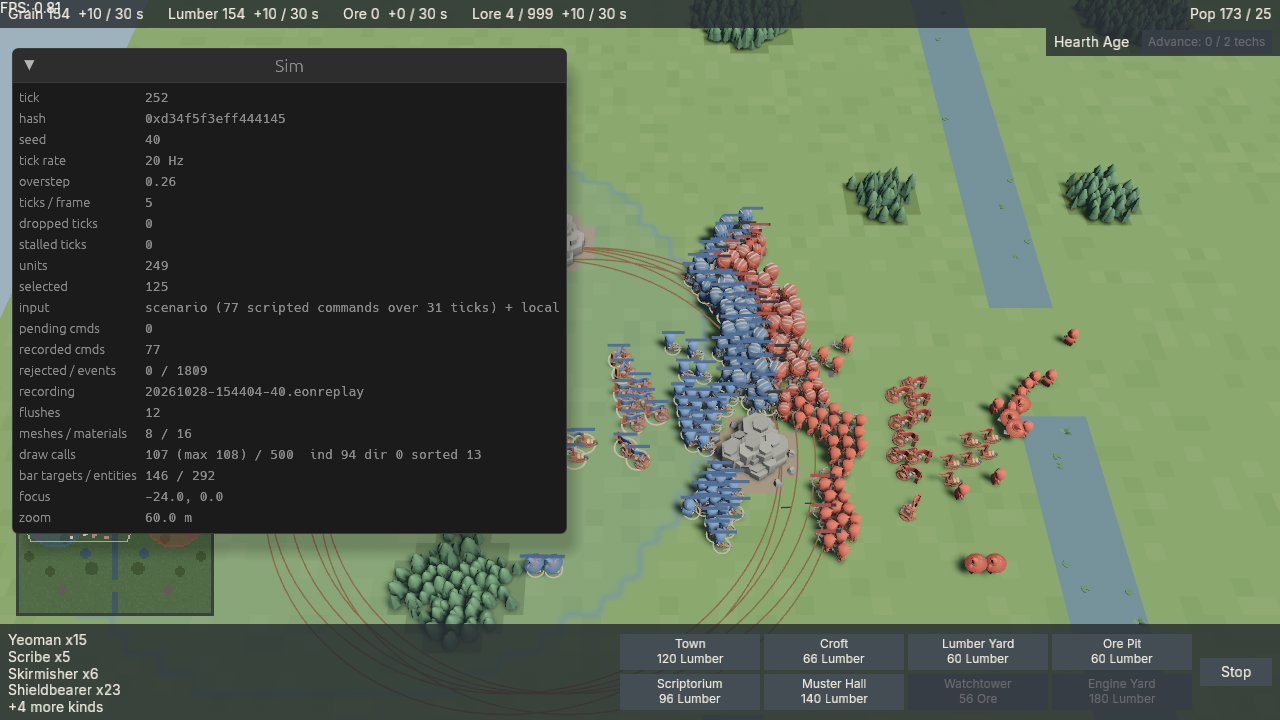
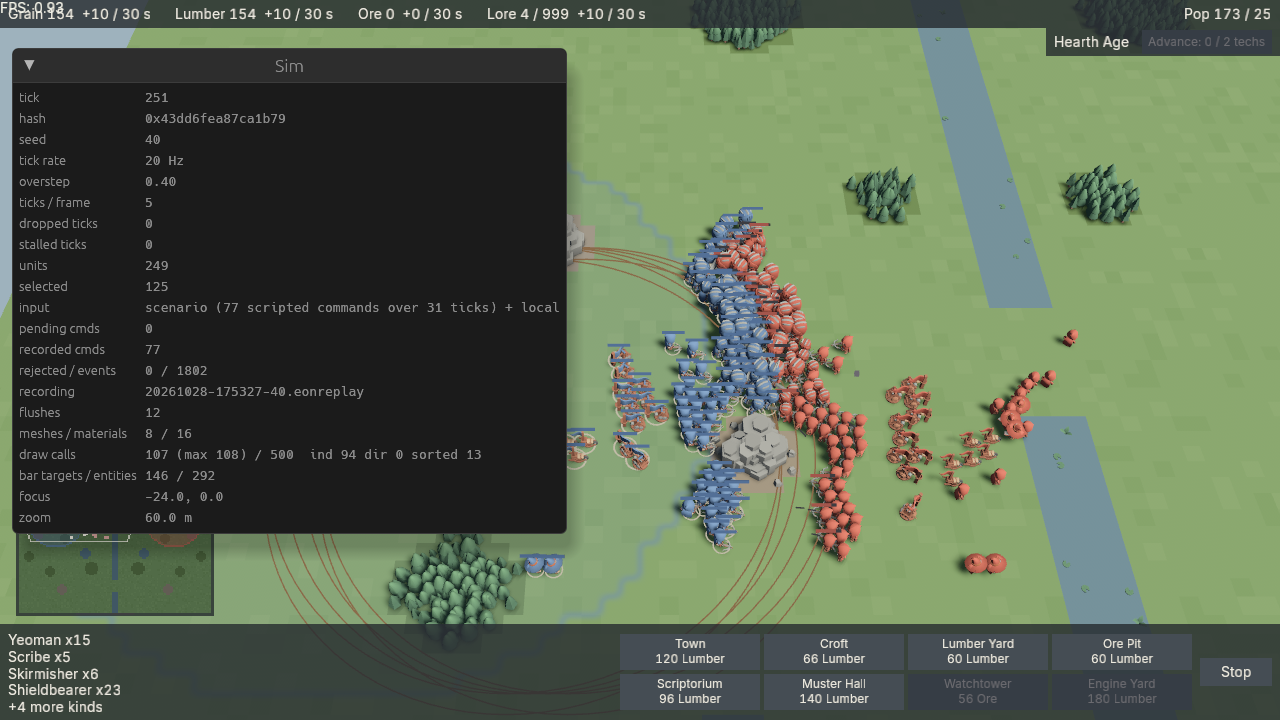
Correct the art-pass sign-off notes and retake the screenshots with tabular figures
PLAYTEST's caption for art-battle-60m.png named both Towns' buildings,
but the shot holds P0's Seat, its eleven buildings and three sites; P1's
mirrored Town is off-screen, on the minimap only. The match shot's
minimap outlines four Towns, two a player. The sign-off note pointed the
owner at the blue buildings' terracotta wood only; the blue Mangonel and
Supply Wain are mostly the same wood, and on art-units-40m.png their
saturated pixels count more red than blue (343 against 121, 227 against
54), so the note now names them with the same lever. Owner decision 15
also reads "no crowd clipping": scale 450 still reaches 0.10 m past the
Mangonel's radius and a banner inside it would miss the 120 permille
floor, so ROADMAP, ART_STYLE, inspect_gltf's comment and the sign-off
note record that and ask the owner to confirm. ART_STYLE called the
scale-450 pole half as thick; it is 450/700, about two-thirds.

fog.md now cites the plugin-driven border test for AP6's "within one
frame", ROADMAP gains the review's note, and PLAYTEST's proxy rows the
re-run evidence, including one art-checks run whose minimap paint p95 read
575 us and art_drive's ungated short-run p95. The five screenshots are
retaken by just art-checks at b5f7154 (lossless re-encode), so the HUD
shows Inter's tabular figures.

diff --git a/tools/inspect_gltf/src/check.rs b/tools/inspect_gltf/src/check.rs
@@ -105,8 +105,10 @@ impl Default for Budgets {
     /// The team floors are the plan's (units 200‰, the Wain 80‰, buildings
     /// 100‰); the Seat flag's 300‰ sits under its measured 457‰. The
     /// Mangonel's own floor is 120‰ (owner decision 15 of the art pass,
-    /// 2026-10-28: its banner shrinks to scale 450, about 123‰, so it
-    /// clips less in a packed group; every other unit keeps 200‰).
+    /// 2026-10-28: its banner shrinks to scale 450, about 123‰, "no crowd
+    /// clipping"; centred it still reaches 0.10 m past the 0.5 m radius,
+    /// which `check` notes, and a banner inside the radius would miss the
+    /// floor; every other unit keeps 200‰).
     fn default() -> Self {
         Budgets {
             file_bytes: 2 * 1024 * 1024,

diff --git a/docs/PLAYTEST.md b/docs/PLAYTEST.md
@@ -131,9 +131,9 @@ The art pass's acceptance list is in the ROADMAP's "Art pass (pre-stream)" secti
 
 | Proxy | Command | Covers | Pass when | Observed |
 |---|---|---|---|---|
-| `just art-checks` (local only) | `just art-checks out` (builds a dev binary, kept as `target/ci/eonmark-dev`, then the `ci` game, `sim-cli` and `inspect_gltf`; `scripts/art_checks.sh`, which wraps each game run in `xvfb-run` on lavapipe when there is no display; `ART_BENCH_SECONDS=120`, `ART_LOOKS_SECONDS=60`, `ART_MATCH_SECONDS=90`, `ART_DEV_SECONDS=120`) | 1. data-check; 2. AP2's Yeoman swap on a scratch copy of `data/`; 3. AP3's `inspect_gltf check`; 4. AP1's `check_assets.sh` and its self-test; 5 to 9. five 1280x720 runs that save the four sign-off shots and the dev panel's, each run's draws under 500 (AP4 on `art_bench`), the minimap's paint p95 at most 500 us (AP6), every replay verified; 10. no process left | every step prints PASS and the script ends `art_checks: ok` | 2026-10-28, 8 min 58 s, every step PASS. `OK rules_version=25 rules_hash=0xfb0d0b8986fc8865 ... visuals=units:8 buildings:8 terrain:3 models=36`; the swapped copy `... rules_hash=0xfb0d0b8986fc8865 ... models=35`, one changed line, all 11 fixtures `OK` against it; `check: ok 37 scene(s)`; `check_assets: ok (80 files, 4230353 bytes)` and the self-test's `error: models/unattributed.glb has no row in assets/ATTRIBUTION.md ...` then `self-test ok`. Draws: `unit_looks` max 70; `art_bench` at 40 m max 115 (`fight_max=115`); in its framing `draws frames=109 mean=104.2 p95=109 max=109 indirect_max=97 direct_max=0 sorted_max=12 mode=culling fight_max=109` with `triangles main_max=2090217` and `fight ... fps=0.9 ... on_screen_min=348/348`; the spectated match max 91 (`fast_forward: tick=13006 wall_s=0.52`); the dev build max 110 with `hierarchy_check: ok frames=114 bar_targets_max=213 rings_max=200`. Minimap paint p95 332.6 to 361.9 us. |
-| `just art-drive` (local only, Linux) | `just art-drive out` (`scripts/art_drive.sh target/ci/eonmark target/release/sim-cli out`: its own Xvfb per run and xdotool) | AP10: every unit of `--scenario unit_looks --click-check` clicked with real X input; AP6: `--scenario economy_walkthrough --minimap-check`'s press, drag, right click, and A then left click on the minimap | `click_check: ok 16/16` and `minimap_check: ok`, both games exit 0 with no ERROR line, both replays verify, no process left | 2026-10-28, 54 s: 16 `click_check: selected <i> ...` lines and `click_check: ok 16/16` (`OK final_hash=0xb22949aa7aa54c0a ticks=544`); `minimap_check: pass 1 focus=32.5,32.5`, `pass 2 focus=-25.5,-6.5 drags=6`, `pass 3 move units=5`, `pass 4 attack_move`, `minimap_check: ok` (`OK final_hash=0x696ca49d752a9ca6 ticks=168`). |
-| CI's `art_bench` render smoke and draw-call gate | `scripts/render_smoke.sh target/ci/eonmark out art_bench '' 200 120`, then `scripts/check_draws.sh --fight out/render_smoke.log` | AP4 in CI | the smoke passes and `check_draws: ok` | Locally 2026-10-28 (1280x800): tick 200 at 63.8 s, `draws ... max=109 ... fight_max=109`, `check_draws: ok max=109 fight_max=109 < 500 mode=culling`. On Actions: read it off the art pass PR's game-linux job. |
+| `just art-checks` (local only) | `just art-checks out` (builds a dev binary, kept as `target/ci/eonmark-dev`, then the `ci` game, `sim-cli` and `inspect_gltf`; `scripts/art_checks.sh`, which wraps each game run in `xvfb-run` on lavapipe when there is no display; `ART_BENCH_SECONDS=120`, `ART_LOOKS_SECONDS=60`, `ART_MATCH_SECONDS=90`, `ART_DEV_SECONDS=120`) | 1. data-check; 2. AP2's Yeoman swap on a scratch copy of `data/`; 3. AP3's `inspect_gltf check`; 4. AP1's `check_assets.sh` and its self-test; 5 to 9. five 1280x720 runs that save the four sign-off shots and the dev panel's, each run's draws under 500 (AP4 on `art_bench`), the minimap's paint p95 at most 500 us (AP6), every replay verified; 10. no process left | every step prints PASS and the script ends `art_checks: ok` | 2026-10-28, 8 min 58 s, every step PASS. `OK rules_version=25 rules_hash=0xfb0d0b8986fc8865 ... visuals=units:8 buildings:8 terrain:3 models=36`; the swapped copy `... rules_hash=0xfb0d0b8986fc8865 ... models=35`, one changed line, all 11 fixtures `OK` against it; `check: ok 37 scene(s)`; `check_assets: ok (80 files, 4230353 bytes)` and the self-test's `error: models/unattributed.glb has no row in assets/ATTRIBUTION.md ...` then `self-test ok`. Draws: `unit_looks` max 70; `art_bench` at 40 m max 115 (`fight_max=115`); in its framing `draws frames=109 mean=104.2 p95=109 max=109 indirect_max=97 direct_max=0 sorted_max=12 mode=culling fight_max=109` with `triangles main_max=2090217` and `fight ... fps=0.9 ... on_screen_min=348/348`; the spectated match max 91 (`fast_forward: tick=13006 wall_s=0.52`); the dev build max 110 with `hierarchy_check: ok frames=114 bar_targets_max=213 rings_max=200`. Minimap paint p95 332.6 to 361.9 us. Re-run after the review of slices 5 and 6 (2026-10-28, code at `b5f7154`): the first run failed one check, step 7's `minimap paint p95=575.0 us, want <= 500` over 137 repaints (`max=1610.4`; the paint code had not changed, and the same step read 303.7 us on the next run, so it is the VM's timing noise, not a regression); the re-run, 8 min 54 s, passed every step: draws `unit_looks` max 70, `art_bench` at 40 m max 115, in its framing `check_draws: ok max=109 fight_max=109 < 500 mode=culling fight ticks=47..388 frames=72`, the spectated match max 94, the dev build max 110 with `hierarchy_check: ok frames=131 bar_targets_max=213 rings_max=200`; minimap paint p95 287.9 to 327.7 us; step 10 `PASS  no game this script started is running` and `PASS  no Xvfb this script started is running`. |
+| `just art-drive` (local only, Linux) | `just art-drive out` (`scripts/art_drive.sh target/ci/eonmark target/release/sim-cli out`: its own Xvfb per run and xdotool) | AP10: every unit of `--scenario unit_looks --click-check` clicked with real X input; AP6: `--scenario economy_walkthrough --minimap-check`'s press, drag, right click, and A then left click on the minimap | `click_check: ok 16/16` and `minimap_check: ok`, both games exit 0 with no ERROR line, both replays verify, no process left | 2026-10-28, 54 s: 16 `click_check: selected <i> ...` lines and `click_check: ok 16/16` (`OK final_hash=0xb22949aa7aa54c0a ticks=544`); `minimap_check: pass 1 focus=32.5,32.5`, `pass 2 focus=-25.5,-6.5 drags=6`, `pass 3 move units=5`, `pass 4 attack_move`, `minimap_check: ok` (`OK final_hash=0x696ca49d752a9ca6 ticks=168`). This script gates no paint time: over its 40 to 48 repaints a run's p95 is close to the third-worst sample, and an earlier run of the same binary printed `frame_stats: minimap repaints=47 paint_us mean=238.5 p95=629.2 max=1694.6`, over AP6's 500 us, while `just art-checks`, which gates it, judges the bound over 112 to 206 repaints a run. Re-run after the review of slices 5 and 6 (2026-10-28, code at `b5f7154`), 51 s: `click_check: ok 16/16` (`OK final_hash=0xe9e2acaf1ec8d1ce ticks=551`), the same four `minimap_check: pass` lines and `minimap_check: ok` (`OK final_hash=0xae43fc0a59197776 ticks=170`, `frame_stats: minimap repaints=40 paint_us mean=193.8 p95=295.7 max=342.9`), `PASS  none of the 4 games and Xvfb servers this script started is running`. |
+| CI's `art_bench` render smoke and draw-call gate | `scripts/render_smoke.sh target/ci/eonmark out art_bench '' 200 120`, then `scripts/check_draws.sh --fight out/render_smoke.log` | AP4 in CI | the smoke passes and `check_draws: ok` | Locally 2026-10-28 (1280x800): tick 200 at 63.8 s, `draws ... max=109 ... fight_max=109`, `check_draws: ok max=109 fight_max=109 < 500 mode=culling`. Since the review of slices 5 and 6, `--fight` also requires that the fight was measured (a non-zero `fight_max` and a `frame_stats: fight` line with fight frames and ticks); the slice 5 verify run of `just render-smoke out art_bench '' 300 120` at `b5f7154` printed `check_draws: ok max=109 fight_max=109 < 500 mode=culling fight ticks=47..388 frames=72`. On Actions: read it off the art pass PR's game-linux job. |
 | Trace cross-check | `XCHECK_TARGET_DIR=<scratch> scripts/draw_trace_xcheck.sh out` (a second Bevy build with `detailed_trace`, about 4 GB) | AP4's and AP7's "the trace cross-check agrees in both modes" | four `draw_trace_xcheck: ... PASS` lines | 2026-10-28, 21 min: `unit_looks` and `art_bench`, `mode=culling` and `mode=preprocessing_only`, every frame equal but the last, which the exit cuts short (docs/BUILD_TIMES.md). |
 
 ## Owner's Mac checklist (art pass)
@@ -185,7 +185,10 @@ What to look for:
 7. M3b line 2: `fps` >= 60 in `frame_stats: frames=<n> seconds=<s> fps=<f>` (the walkthrough has no fight window) and the dev panel's draw calls under 500. M4b line 2: its `fight` line as in the M4b checklist's note 1, now with the character models.
 8. `cpal v0.17.3`, one line.
 
-At sign-off, look hard at one thing the agent's check flagged: the KayKit buildings' terracotta walls and trim (hue about 21°, saturation about 0.47 in `art-town-40m.png`) sit close to the red team colour on screen (P1's units measure hue about 15°, saturation 0.52), so a blue building carries a warm red-brown that a viewer might read as red. If it does, the lever is one number in `data/visuals.ron`, `team_swatches["kaykit_hexagon"].desaturate_permille` (200 now; the props use 500), with no Rust change and no `rules_version` bump.
+At sign-off, look hard at two things the agent's check flagged:
+
+1. **KayKit's terracotta wood on the blue side.** The KayKit buildings' terracotta walls and trim (hue about 21°, saturation about 0.47 in `art-town-40m.png`) sit close to the red team colour on screen (P1's units measure hue about 15°, saturation 0.52), so a blue building carries a warm red-brown that a viewer might read as red. The same wood is most of the blue Mangonel and Supply Wain, which carry only their cloth in team colour (the catapult has 25‰ of team texels, 123‰ with its scale-450 banner, owner decision 15; the Wain 88‰), and on those two it outweighs the blue: counting saturated pixels (saturation at least 0.3, value at least 0.2) in `art-units-40m.png`, P0's Mangonel (855,210)-(905,252) has 343 red-hued against 121 blue-hued, and P0's Wain (950,210)-(995,250) 227 against 54, their red pixels at hue about 18°, saturation 0.47, as on P1's Mangonel and Wain, which only the cloth tells apart. The blue Crofts in `art-town-40m.png` come out the other way (927, 767 and 772 red against 1448, 1406 and 1381 blue). So an unselected, undamaged blue engine or cart behind the blue line, with no bar over it, can read as red; judge them with the buildings. If they do, the lever for the buildings and these two units alike (all use the `kaykit_hexagon` swatch) is one number in `data/visuals.ron`, `team_swatches["kaykit_hexagon"].desaturate_permille` (200 now; the props use 500), with no Rust change and no `rules_version` bump.
+2. **The Mangonel's banner in a packed group.** Owner decision 15 shrank it to scale 450 (1.25 m, 123‰) and reads "no crowd clipping"; centred on the engine it still reaches 0.60 m from the centre, 0.10 m past the 0.5 m collision radius (`inspect_gltf check` notes it), so two packed engines' cloths can touch, and the catapult itself (1.45 m long on a 1.0 m diameter) overlaps a packed neighbour at any banner size. A banner inside the radius (scale about 380) gives 100‰, under the Mangonel's 120‰ floor, so no scale meets both. Look at `art_bench`'s ten engines (steps 1 and 3, or `art-battle-60m.png`) and confirm scale 450 or name another; the lever is `"mangonel"`'s `banner_at` `scale_x100` in `data/visuals.ron`, with its floor in `inspect_gltf::check`.
 
 ## Owner's Mac checklist (M5b)
 
@@ -367,14 +370,14 @@ The walkthrough pictures are one run of the scripted proxy, with the director fr
 
 ## Screenshots (art pass)
 
-Captured on 2026-10-28 by `just art-checks` on Linux under Xvfb with Mesa's lavapipe (the `ci` profile binary, background mode, `--window-size 1280x720`, `--screenshot-at`), not on the dev Mac: the same pipelines and shaders, rendered in software. Re-encoded losslessly (Pillow's `optimize`; the pixels are identical). Each comes from a run whose replay verifies. The four sign-off shots are AP8's; the owner signs them on the P3 display and as sRGB exports ([Owner's Mac checklist (art pass)](#owners-mac-checklist-art-pass)).
+Captured on 2026-10-28 by `just art-checks` on Linux under Xvfb with Mesa's lavapipe (the `ci` profile binary, background mode, `--window-size 1280x720`, `--screenshot-at`), not on the dev Mac: the same pipelines and shaders, rendered in software. Retaken the same day after the review of slices 5 and 6, so the HUD's figures are Inter's tabular ones. Re-encoded losslessly (Pillow's `optimize`; the pixels are identical). Each comes from a run whose replay verifies. The four sign-off shots are AP8's; the owner signs them on the P3 display and as sRGB exports ([Owner's Mac checklist (art pass)](#owners-mac-checklist-art-pass)).
 
 | File | Run | What to look for |
 |---|---|---|
-| [screenshots/art-units-40m.png](screenshots/art-units-40m.png) | `--scenario unit_looks` (its 40 m framing), tick 100 (`OK final_hash=0xda49c20c61e5fbd2 ticks=870`) | One of each kind per team, left to right: Yeoman (hood, empty hands), Scribe (wide hat), Skirmisher (axes), Shieldbearer (helmet and shield), Bowman (hood and crossbow), Outrider (the tall knight with a two-handed sword), Mangonel (catapult under its team banner), Supply Wain (wheelbarrow with a pennant); blue row above, red below; the minimap bottom-left |
-| [screenshots/art-town-40m.png](screenshots/art-town-40m.png) | `--scenario art_bench --camera 24,64,40`, tick 300 (`OK final_hash=0x41fd92baa7b4005e ticks=660`) | P0's Seat (the castle with its Town banner and the Seat flag on the keep), five Croft cottages, the Lumber Yard, the Ore Pit's mine and banner beside the mountain, Scriptorium, Muster Hall, Engine Yard, the Watchtower, construction sites, the forest; P0's selected army (rings) and the Wains' supply rings; the front of the fight at the right edge |
-| [screenshots/art-battle-60m.png](screenshots/art-battle-60m.png) | `--scenario art_bench` (its 60 m framing), tick 300, mid-fight (`OK final_hash=0x99b312ab444ca040 ticks=664`) | Both Towns' worth of buildings on P0's side, 200 blue against 200 red meeting east of the Town, team-coloured bars over the damaged units along the front (at 60 m the arrows are a few pixels and hard to see), red Mangonels with their banners behind the red army; the minimap with both territories and the view outline |
-| [screenshots/art-match-minimap.png](screenshots/art-match-minimap.png) | `--spectate --seed 1 --fast-forward-to 13006`, tick 13206 (`OK final_hash=0x237ae84d538bf9c2 ticks=13934`, recorded from tick 13006) | A real match half way: P0's Town at Masonry Age with its buildings, Yeomen at work, the territory border; the minimap with both territories, both Towns' outlines, the units and the view trapezoid |
+| [screenshots/art-units-40m.png](screenshots/art-units-40m.png) | `--scenario unit_looks` (its 40 m framing), tick 100 (`OK final_hash=0x454bfaf22653b11d ticks=974`) | One of each kind per team, left to right: Yeoman (hood, empty hands), Scribe (wide hat), Skirmisher (axes), Shieldbearer (helmet and shield), Bowman (hood and crossbow), Outrider (the tall knight with a two-handed sword), Mangonel (catapult under its team banner), Supply Wain (wheelbarrow with a pennant); blue row above, red below; the minimap bottom-left |
+| [screenshots/art-town-40m.png](screenshots/art-town-40m.png) | `--scenario art_bench --camera 24,64,40`, tick 300 (`OK final_hash=0x18fb7ae9ca43ee03 ticks=665`) | P0's Seat (the castle with its Town banner and the Seat flag on the keep), five Croft cottages, the Lumber Yard, the Ore Pit's mine and banner beside the mountain, Scriptorium, Muster Hall, Engine Yard, the Watchtower, construction sites, the forest; P0's selected army (rings) and the Wains' supply rings; the front of the fight at the right edge |
+| [screenshots/art-battle-60m.png](screenshots/art-battle-60m.png) | `--scenario art_bench` (its 60 m framing), tick 300, mid-fight (`OK final_hash=0x450ef9e12bf9f3be ticks=688`) | P0's Seat with its eleven buildings and three construction sites west of the fight (P1's mirrored Town is off-screen to the east, on the minimap only, outside the view outline), 200 blue against 200 red meeting east of the Town, team-coloured bars over the damaged units along the front (at 60 m the arrows are a few pixels and hard to see), red Mangonels with their banners behind the red army; the minimap with both territories and the view outline |
+| [screenshots/art-match-minimap.png](screenshots/art-match-minimap.png) | `--spectate --seed 1 --fast-forward-to 13006`, tick 13206 (`OK final_hash=0xe0e7536c0284ce8b ticks=14005`, recorded from tick 13006) | A real match half way: P0's Town at Masonry Age with its buildings, Yeomen at work, the territory border; the minimap with both territories, each player's two Towns outlined (four outlines; the Standard bot builds a second Town), the units and the view trapezoid |
 | [screenshots/art-dev-panel.png](screenshots/art-dev-panel.png) | a dev build (`--features dev --profile ci`), `--scenario art_bench`, tick 250 | AP7: the Sim panel's `draw calls  107 (max 108) / 500  ind 94 dir 0 sorted 13` with 125 of P0's units selected (the panel hides the minimap in dev builds) |
 
 ## Match log (M6)

diff --git a/docs/ROADMAP.md b/docs/ROADMAP.md
@@ -370,9 +370,10 @@ Readable at 40 m, calm, matte and low-poly, with team colours obvious and a mini
 - Owner decision 12, 2026-10-28: a team banner. Every team building (and, in slice 4, the Mangonel) carries the vendored KayKit flag repainted in its owner's colour, placed and sized per building in `visuals.ron` alone (`banner_at`), drawn as one shared mesh with one material per team, and the floors are measured on model plus banner (`inspect_gltf check`); a base disc, lower floors and other models were declined. Slice 3 (2026-10-28) sizes each banner so the building reaches 100‰ wherever a banner no taller than the building can: the Lumber Yard 102‰ (1.53 m banner), the Muster Hall 102‰ (2.16 m, the largest), the Watchtower 109‰ (on its roof), the Engine Yard 102‰; the Croft (263‰) and the Scriptorium (283‰) passed already. **Held for the owner:** the Ore Pit reaches 25‰ with a readable 0.97 m banner and only 31‰ with one as tall as the mine (1.13 m; 100‰ would take a 2.3 m banner), and the Town 74‰ with a 1.25 m banner (about 2.8 m, a cloth as wide as the castle, would reach 100‰; a Seat also flies the 1.8 m Seat flag on its keep, which the measure leaves out). Both keep their readable banners and are listed in `inspect_gltf::check::PENDING_TEAM_FLOOR`, so `check` prints them as `PENDING` and stays green until the owner chooses (accept them as they are, a second banner, or another model); AP3 cannot be ticked while they are held. Screenshots: P0 and P1 Towns at 40 m, team colour on roofs and banners. (Superseded by the review note of 2026-10-28 below: no kind is held.)
 - Facing (slice 3, 2026-10-28): slice 2's note that KayKit buildings face +X at yaw 0 came from `check`'s `facing=` hint, which names the side with the most surface; screenshots of every building at yaw 0, 90, 180 and 270 show the doors (the Croft's, the Scriptorium's, the Muster Hall's), the mine's entrance and the forge facing +Z at yaw 0, so every building uses `yaw_deg: 0`. The hint reads 26-29% on these hex-based models and does not find a door; [ART_STYLE.md](ART_STYLE.md) says so beside it.
 - Units (slice 4, 2026-10-28): all eight kinds are models (owner decision 3 holds: every one of the five Adventurers characters posed, so none keeps its M4b look, which stays in each line as the `fallback`). The Yeoman, Scribe, Skirmisher, Shieldbearer, Bowman and Outrider are baked from KayKit Adventurers 1.0 (`tools/assets/bake.ron`, 4,005-5,325 triangles each against the 5,500 cap, each GLB sha256-pinned in its row), the Mangonel is the catapult of the Hexagon catapult tower and the Supply Wain a wheelbarrow with a sack, a crate and the flag; the table is in [ART_STYLE.md](ART_STYLE.md), "Unit looks". Owner decision 12 on units: the Mangonel's catapult carries 25‰ of team texels, so it flies the data-driven team banner (scale 700, a 1.94 m cloth on a 0.39 m pole, 204‰; scale 450 gives 123‰), and the Wain reaches 88‰ with its flag at scale 140, kept as its banner. `art_bench` reads `triangles main_max=2117469` under lavapipe, under twice the plan's 1.2 M, so no cape, helmet or hat was dropped; AP5 on the Mac decides the rest. The 1.4x rule compares models per rig group, a shared rig on a shared texture, since every Adventurers character shares one skeleton. `--click-check` judged real clicks under Xvfb `ok 16/16` without a picking proxy. Nothing in slice 4 ticks an acceptance line: AP3 still waits on the held Ore Pit and Town floors.
-- Review of slices 3 and 4 (2026-10-28): owner decision 12 keeps the floors and sets no banner-height cap, so the hold is lifted. Every building reaches 100‰ with its banner: the Town 102‰ with a 2.83 m banner whose pole stands in its front-left tower and whose cloth flies over the gate, the Ore Pit 102‰ with a 2.33 m banner at the mine's front-left foot, turned 45° to fit its 2 m footprint, the rest as before; `inspect_gltf check` fails any kind under its floor (`PENDING_TEAM_FLOOR` and its `PENDING` lines are gone, so CI no longer passes a building under a floor the owner kept). Slice 3's two size rules were the implementer's, not decision 12's: a banner taller than its building is now a printed note, and the Seat flag's "1.4 times the Town's banner" became a placement rule, its foot above the top of the Town's own banner (on the keep, 4.90 m against 3.74 m). Every banner and the Seat flag now stand inside their footprint, a new `check` rule: slice 3's banners stood beside their buildings and hung up to 1.81 m over the next tiles, into the mountain beside the Ore Pit and over units walking past. A building drawn as the M3b box after its model fails carries no banner, and a Seat's flag then stands at the box's north-east corner. **For the owner at the 40 m sign-off (AP8):** the Town's and the Ore Pit's banners are the sizes the 100‰ floor takes on 67‰ and 5‰ of model team colour; a smaller banner misses the floor, and each mount is one line of `visuals.ron`. Likewise the Mangonel's 1.94 m banner (scale 700, 204‰) reaches past its 0.5 m collision radius, so in a packed group its poles and cloths pass through the neighbouring engines and units; one inside the radius (scale about 380) gives 100‰ against the 200‰ unit floor, and its bar now rides over the banner. **The owner answered on 2026-10-28** (owner decisions 15 and 16): the Town's 2.83 m and the Ore Pit's 2.33 m banners stay as they are; the Mangonel alone shrinks its banner to scale 450 (1.25 m, 123‰), and only the Mangonel's own team floor is lowered to 120‰ in `inspect_gltf check` (every other unit keeps 200‰); art slice 5 centres it on the engine, the mount of least reach, so it reaches 0.60 m from the centre, 0.10 m past the 0.5 m radius (`check` now prints `banner_reach=` and notes a unit banner past its radius). The Seat flag's placement rule (its foot above the top of the Town's banner, enforced by `check`) is accepted, and the 1.4x height ratio stays retired. The same review baked the Bowman from the hooded Rogue (`Rogue_Hooded.glb` with its crossbow): the bare Rogue's brown hair covered most of what the camera sees, so a blue Bowman showed 9% team blue at 40 m against 54% brown and read as red; hooded it shows 62% blue (589‰ of its surface), still 1.61 times deeper than the Yeoman. And `visuals.ron` gained `neutral_desaturate_permille` (500): props, sites and rubble are desaturated like the texels outside a team swatch, so KayKit's trees (median saturation 0.77 at 40 m, twice the team roofs') no longer outshout the team colours (0.27 now).
+- Review of slices 3 and 4 (2026-10-28): owner decision 12 keeps the floors and sets no banner-height cap, so the hold is lifted. Every building reaches 100‰ with its banner: the Town 102‰ with a 2.83 m banner whose pole stands in its front-left tower and whose cloth flies over the gate, the Ore Pit 102‰ with a 2.33 m banner at the mine's front-left foot, turned 45° to fit its 2 m footprint, the rest as before; `inspect_gltf check` fails any kind under its floor (`PENDING_TEAM_FLOOR` and its `PENDING` lines are gone, so CI no longer passes a building under a floor the owner kept). Slice 3's two size rules were the implementer's, not decision 12's: a banner taller than its building is now a printed note, and the Seat flag's "1.4 times the Town's banner" became a placement rule, its foot above the top of the Town's own banner (on the keep, 4.90 m against 3.74 m). Every banner and the Seat flag now stand inside their footprint, a new `check` rule: slice 3's banners stood beside their buildings and hung up to 1.81 m over the next tiles, into the mountain beside the Ore Pit and over units walking past. A building drawn as the M3b box after its model fails carries no banner, and a Seat's flag then stands at the box's north-east corner. **For the owner at the 40 m sign-off (AP8):** the Town's and the Ore Pit's banners are the sizes the 100‰ floor takes on 67‰ and 5‰ of model team colour; a smaller banner misses the floor, and each mount is one line of `visuals.ron`. Likewise the Mangonel's 1.94 m banner (scale 700, 204‰) reaches past its 0.5 m collision radius, so in a packed group its poles and cloths pass through the neighbouring engines and units; one inside the radius (scale about 380) gives 100‰ against the 200‰ unit floor, and its bar now rides over the banner. **The owner answered on 2026-10-28** (owner decisions 15 and 16): the Town's 2.83 m and the Ore Pit's 2.33 m banners stay as they are; the Mangonel alone shrinks its banner to scale 450 (1.25 m, 123‰), and only the Mangonel's own team floor is lowered to 120‰ in `inspect_gltf check` (every other unit keeps 200‰); art slice 5 centres it on the engine, the mount of least reach, so it reaches 0.60 m from the centre, 0.10 m past the 0.5 m radius (`check` now prints `banner_reach=` and notes a unit banner past its radius). Decision 15 also reads "no crowd clipping", and scale 450 does not fully give that: packed engines' cloths can still touch when they stand closer than about 1.2 m, and the catapult itself (1.45 m long on a 1.0 m diameter) overlaps a packed neighbour at any banner size. A banner inside the radius (scale about 380) gives 100‰, under the 120‰ floor, so no banner scale meets both; the owner confirms scale 450 at the AP8 sign-off (PLAYTEST's "Owner's Mac checklist (art pass)"). The Seat flag's placement rule (its foot above the top of the Town's banner, enforced by `check`) is accepted, and the 1.4x height ratio stays retired. The same review baked the Bowman from the hooded Rogue (`Rogue_Hooded.glb` with its crossbow): the bare Rogue's brown hair covered most of what the camera sees, so a blue Bowman showed 9% team blue at 40 m against 54% brown and read as red; hooded it shows 62% blue (589‰ of its surface), still 1.61 times deeper than the Yeoman. And `visuals.ron` gained `neutral_desaturate_permille` (500): props, sites and rubble are desaturated like the texels outside a team swatch, so KayKit's trees (median saturation 0.77 at 40 m, twice the team roofs') no longer outshout the team colours (0.27 now).
 - Slice 5 (2026-10-28): the minimap, Inter and hit feedback. The minimap sits bottom-left over the bottom bar at 192 px (owner decision 7; [ui.md](design/ui.md)): terrain, territory and borders rebuilt in the tick that changed them, buildings, every unit (no fog yet), the selection, Town outlines that turn amber while annexed, and the view trapezoid; a press or drag moves the camera, a right click issues `orders::ground_order` and a click with attack-move armed an `AttackMove`. Unit dots are brightened 45% instead of the plan's 15%, which left them unreadable on their own territory. `--minimap-check` judged a scratch xdotool drive under Xvfb `minimap_check: ok` (press, drag, right click, A then left click); `scripts/art_drive.sh` is slice 6's. Inter 4.1 replaces Bevy's Fira Mono at startup and the HUD fit tests measure Inter's real advances through skrifa 0.42.1 (a game dev-dependency on the copy parley locks; no new package in `Cargo.lock`). Every `SimEvent::Hit` draws an arrow, a Mangonel stone or a melee lunge (presentation only); arrows fly on a low arc so they show over the heads between archer and target. Nothing in slice 5 ticks an acceptance line.
 - Slice 6 (2026-10-28): the close. `scripts/art_checks.sh` (`just art-checks`) runs data-check, the Yeoman swap walkthrough on a scratch copy of `data/` (AP2), `inspect_gltf check` (AP3), `check_assets.sh` and its self-test (AP1), and five windowed runs at 1280 x 720 under lavapipe that save `docs/screenshots/art-units-40m.png`, `art-town-40m.png`, `art-battle-60m.png`, `art-match-minimap.png` and, from a dev build, `art-dev-panel.png`, each run's draws gated under 500 and its replay verified. `scripts/art_drive.sh` (`just art-drive`) takes over the slice 4 and 5 scratch drivers: `click_check: ok 16/16` and `minimap_check: ok` with real X input. CI's game-linux render smoke adds `art_bench '' 200 120` (tick 200, a 120 s deadline: lavapipe draws `art_bench` at about one frame a second, so on the 4-vCPU VM tick 300 came 74 to 87 s in, too close to 120 s for a runner of unknown speed, while tick 200 came 64 s in) and a step that runs `scripts/check_draws.sh` over every smoke's log. [STREAMING.md](STREAMING.md) is the owner's stream set-up. The acceptance ticks (AP1 to AP4, AP6, AP7, AP9, AP10, and M7's `check_assets` and `data-check` lines) are made in the art pass's close PR with its own observed output, since each names the PR; AP4's CI clause is read on that PR's Actions run. AP5, AP8 and AP6's hand check wait for the owner's Mac ([PLAYTEST.md](PLAYTEST.md), "Owner's Mac checklist (art pass)").
+- Review of slices 5 and 6 (2026-10-28): an empty, truncated or garbage `InterVariable.ttf` used to replace Fira Mono with a font Bevy registers no family for, so every text drew nothing with no warning; `fonts::install_ui_font` now registers the bytes first and keeps Fira Mono with a `warn!` (`an_unparsable_font_file_keeps_fira_mono`). Inter's default figures are proportional, so each stock, rate or countdown that changed by a digit moved the readouts beside it; every HUD, overlay and menu text now uses Inter's tabular figures (`fonts::hud_font`), checked with Bevy's own text measure and UI layout (`readouts_hold_their_place_when_a_number_changes`), and the fit tests measure figures in that form. `minimap_overlaps_no_hud_text` now lays out the real nodes instead of rebuilding them from constants, and `the_plugin_shows_a_new_border_in_the_update_of_its_tick` checks AP6's "within one frame" on `MinimapPlugin`'s own schedule. The minimap does not move the camera after the outcome (the outcome overlay covers it); the docs said it did. `scripts/check_draws.sh --fight` now requires that the fight was measured (a non-zero `fight_max` and a `frame_stats: fight` line with fight frames and ticks), since `fight_max=0` passed and `fight_max < 500` follows from `max < 500`. `art_checks.sh` and `art_drive.sh` check only the games and Xvfb servers they started (the dev binary `eonmark-dev` was missed; another session's Xvfb failed them). PLAYTEST's captions now say what the 60 m and match shots show, its sign-off note adds the blue Mangonel and Supply Wain, whose bodies are the same terracotta wood, and decision 15's "no crowd clipping" clause is recorded with the 0.10 m that scale 450 still reaches past the radius. The five screenshots were retaken with the tabular figures.
 
 ### Acceptance
 

diff --git a/docs/ART_STYLE.md b/docs/ART_STYLE.md
@@ -211,7 +211,7 @@ Every unit kind is one line of `data/visuals.ron`: a static model with its team 
 
 The Bowman is the hooded Rogue since the review of 2026-10-28: baked from the bare `Rogue.glb`, its brown hair (hue about 17°, beside the red team's 6°) covered most of what the 55° camera sees, so at 40 m a blue Bowman showed 9-12% team pixels against 46-87% on the other kinds and read as part of the red army, although `check` measured 282‰ of its whole surface; the hood is in the `adv_rogue` swatch, so it shows 589‰ and the team colour now covers the head. The crossbow still keeps it 1.61 times deeper than the Yeoman.
 
-The heights are the art-pass plan's: the Yeoman 1.30 m, the Scribe, Skirmisher and Bowman 1.40 m, the Shieldbearer 1.45 m and the Outrider 2.05 m, 1.41 times the Shieldbearer (no CC0 horse is reachable, so it is the Knight with a two-handed sword, drawn larger). Each character's swatch rects are cells of its baked 256 px atlas picked with `inspect_gltf palette` (the Adventurers ship in one colour, so `swatches` has no red variant to diff); the Knights' red tabard alone is 55-61‰ of their surface, so their swatch takes the steel plate too, and the Barbarian's blue cloth (70‰) takes the fur hat and cape. The rest of each atlas is desaturated 25%, so team colour stays the strongest hue. The Mangonel's catapult carries 25‰ of team texels, so it carries the team banner (owner decision 12 of the art pass): one shared mesh with every building's banner, a top-level entity that follows the unit (`present::UnitBanner`), measured with the model. A unit's banner may stand taller than the unit (a standard over a siege engine), and unlike a building's it is not held inside a footprint, since it moves with its unit; `check` prints how far it reaches from the unit's centre in plan view (`banner_reach=`, any facing) and a note when that passes the unit's collision radius. Slices 3 and 4 shipped a 1.94 m banner (scale 700, 204‰ against the 200‰ unit floor) that reached 1.32 m behind the Mangonel's centre and 0.6 m to its right; the sim keeps units apart only by a soft push (about 1.0-1.1 m centre to centre in a packed group), so in a group of Mangonels, or a crowd, its poles and cloths passed through the neighbouring catapults and units (`art_bench`'s ten engines at tick 60 made a fence of crossing planks). The owner chose the smaller banner on 2026-10-28 (owner decision 15 of the art pass): the Mangonel alone flies it at scale 450, a 1.25 m cloth whose 0.25 m pole is half as thick, and its own team floor is lowered to 120‰ to match (it measures 123‰; every other unit keeps 200‰, and the Town's 2.83 m and Ore Pit's 2.33 m banners stay). Centred on the engine (`offset_x100: (0, 0, 0)`, the mount of least reach), it reaches 0.60 m from the centre, 0.10 m past the 0.5 m radius, against 1.32 m before, so two packed engines' cloths touch only when they stand closer than about 1.2 m with their banners turned toward each other. The Mangonel's health bar rides 0.3 m over the banner's top (1.55 m), not over the catapult's, so the cloth never covers it. The Wain meets its 80‰ floor with the flag scaled 1.4 times as a pennant on its crate.
+The heights are the art-pass plan's: the Yeoman 1.30 m, the Scribe, Skirmisher and Bowman 1.40 m, the Shieldbearer 1.45 m and the Outrider 2.05 m, 1.41 times the Shieldbearer (no CC0 horse is reachable, so it is the Knight with a two-handed sword, drawn larger). Each character's swatch rects are cells of its baked 256 px atlas picked with `inspect_gltf palette` (the Adventurers ship in one colour, so `swatches` has no red variant to diff); the Knights' red tabard alone is 55-61‰ of their surface, so their swatch takes the steel plate too, and the Barbarian's blue cloth (70‰) takes the fur hat and cape. The rest of each atlas is desaturated 25%, so team colour stays the strongest hue. The Mangonel's catapult carries 25‰ of team texels, so it carries the team banner (owner decision 12 of the art pass): one shared mesh with every building's banner, a top-level entity that follows the unit (`present::UnitBanner`), measured with the model. A unit's banner may stand taller than the unit (a standard over a siege engine), and unlike a building's it is not held inside a footprint, since it moves with its unit; `check` prints how far it reaches from the unit's centre in plan view (`banner_reach=`, any facing) and a note when that passes the unit's collision radius. Slices 3 and 4 shipped a 1.94 m banner (scale 700, 204‰ against the 200‰ unit floor) that reached 1.32 m behind the Mangonel's centre and 0.6 m to its right; the sim keeps units apart only by a soft push (about 1.0-1.1 m centre to centre in a packed group), so in a group of Mangonels, or a crowd, its poles and cloths passed through the neighbouring catapults and units (`art_bench`'s ten engines at tick 60 made a fence of crossing planks). The owner chose the smaller banner on 2026-10-28 (owner decision 15 of the art pass): the Mangonel alone flies it at scale 450, a 1.25 m cloth whose pole is about two-thirds as thick (450/700 of every dimension: 0.25 m deep with the cloth, against 0.39 m at scale 700), and its own team floor is lowered to 120‰ to match (it measures 123‰; every other unit keeps 200‰, and the Town's 2.83 m and Ore Pit's 2.33 m banners stay). Centred on the engine (`offset_x100: (0, 0, 0)`, the mount of least reach), it reaches 0.60 m from the centre, 0.10 m past the 0.5 m radius, against 1.32 m before, so two packed engines' cloths touch only when they stand closer than about 1.2 m with their banners turned toward each other. Decision 15 also reads "no crowd clipping", which scale 450 does not fully give: packed engines' cloths can still cross, and the catapult itself (1.45 m long on a 1.0 m diameter) overlaps a packed neighbour at any banner size, while a banner inside the radius (scale about 380) gives 100‰, under the 120‰ floor, so no banner scale meets both. The owner judges it at the AP8 sign-off ([PLAYTEST.md](PLAYTEST.md#owners-mac-checklist-art-pass)). The Mangonel's health bar rides 0.3 m over the banner's top (1.55 m), not over the catapult's, so the cloth never covers it. The Wain meets its 80‰ floor with the flag scaled 1.4 times as a pennant on its crate.
 
 The triangle budget is the art-pass plan's unit cap of 5,500 (slice 2 measured 4,005-5,325 with the kept items; no lighter CC0 character is reachable). `art_bench` (400 units, two full Towns, 60 m) draws `triangles main_max=2117469` in the main pass under lavapipe, under twice the plan's 1.2 M estimate for units, so no cape, helmet or hat was dropped; the owner's Mac run (AP5) decides whether any must go. Draw calls do not grow: each kind is one mesh, the characters share one material per atlas and team, the Mangonel and the Wain the Hexagon one, and the banners the building banners' bin (`art_bench` max 105, as in slice 3 with the M4b looks).
 

diff --git a/docs/design/fog.md b/docs/design/fog.md
@@ -74,7 +74,7 @@ The minimap is a CPU-painted 128 x 128 `Image` shown through an `ImageNode`, one
 
 Left-clicking the minimap moves the camera to that tile. Right-clicking it orders the current selection there, through the same command path as a right-click on the ground. The minimap must mirror fog and borders within one frame of the sim change that caused them.
 
-The art pass built this minimap without fog (`crates/game/src/minimap.rs`, [ui.md](ui.md)): steps 1, 2 and 4 with every unit and building shown, plus the view trapezoid and Town outlines. It is painted from cached layers rather than every frame: the terrain once, the territory again in the `FixedUpdate` step that changed the field's border sources (so a border shows in the frame of its tick, `a_new_border_source_repaints_territory_in_the_same_update`), and the rest whenever the tick, the camera or the selection changed. M7 adds step 3 as one more cached layer rebuilt when the visibility grid changes, and filters the enemy dots of step 4.
+The art pass built this minimap without fog (`crates/game/src/minimap.rs`, [ui.md](ui.md)): steps 1, 2 and 4 with every unit and building shown, plus the view trapezoid and Town outlines. It is painted from cached layers rather than every frame: the terrain once, the territory again in the `FixedUpdate` step that changed the field's border sources (so a border shows in the frame of its tick: `the_plugin_shows_a_new_border_in_the_update_of_its_tick` runs `MinimapPlugin` on its own schedule with `SimPlugin`, and `a_new_border_source_repaints_territory_in_the_same_update` checks the repaint itself), and the rest whenever the tick, the camera or the selection changed. M7 adds step 3 as one more cached layer rebuilt when the visibility grid changes, and filters the enemy dots of step 4.
 
 ## Interactions with other systems
 
